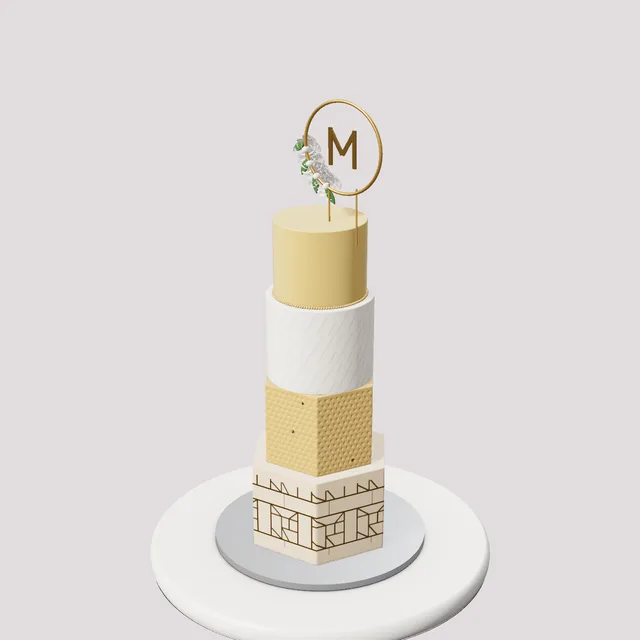
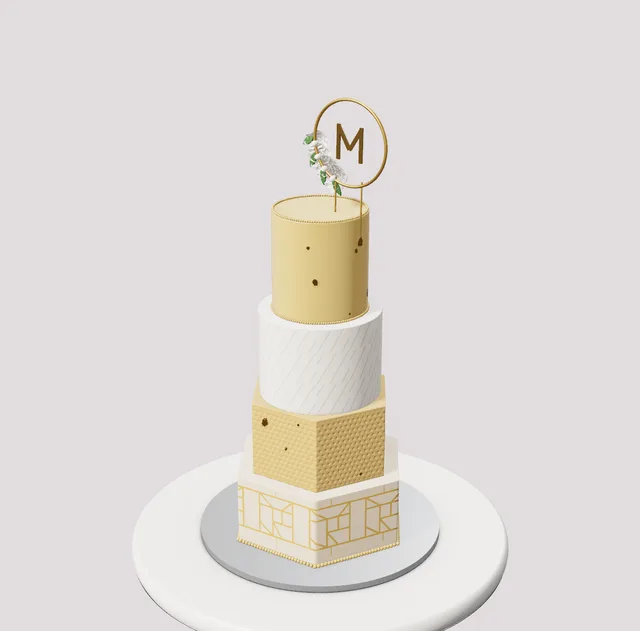
Signature cakes round 6: monogram and movie night proportions
Claude-Session: https://claude.ai/code/session_016sN14hzH19WJ5zrp8o2QGp

diff --git a/studio.html b/studio.html
@@ -1553,10 +1553,10 @@ THEMES.unshift(
   newTier(7,4.4,{top:'none',bottom:'none',decor:[DC('dragees','scatter',60,{color:'#fbf4f0',size:70}),DC('sprig','cascade',3,{color:'#8fa597',rot:-18,wide:2.5,size:210}),DC('peonies','cascade',3,{color:'#f08a9e',rot:-24,wide:2,size:390}),DC('ranunculus','cascade',2,{color:'#b58fcf',rot:-16,wide:2.5,size:300}),DC('blossoms','cascade',5,{color:'#fbf7f1',rot:-20,wide:3,size:170})]}),
   newTier(5.5,4.2,{texture:'lines',top:'none',bottom:'none'})]}},
  {key:'sig_monogram',name:'Gilded Monogram Hexagon',tag:SIG,blurb:'Champagne hexagons with bold geometric gold lines and a gold quilt, a pleated ivory tier, a gold leaf top and a floral monogram hoop.',d:{board:'silver',topper:'none',tiers:[
-  newTier(10,6,{shape:'hexagon',color:'#e4cfb2',finish:'fondant',top:'none',bottom:'none',stencil:{pattern:'geo',color:'#d4ae5a',size:3.6,height:4.8}}),
-  newTier(8,5.6,{shape:'hexagon',color:'#cfa95f',finish:'fondant',texture:'golf',goldLeaf:true,top:'none',bottom:'none'}),
-  newTier(7,5.6,{color:'#fbf7f1',finish:'fondant',top:'none',bottom:'none',stencil:{pattern:'pleats',color:'#e4dcd2',size:2,height:5.6}}),
-  newTier(6,5,{color:'#d8b66a',finish:'fondant',top:'none',bottom:'pearls',bottomColor:'#d4ae5a',decor:[DC('monohoop','cluster',1,{color:'#d4ae5a',size:300,center:true,face:95})]})]}},
+  newTier(13,5.2,{shape:'hexagon',color:'#e8d6bc',finish:'fondant',top:'none',bottom:'none',stencil:{pattern:'geo',color:'#c9a24e',size:4.4,height:4.4,y:.3},bottom:'pearls',bottomColor:'#d4ae5a'}),
+  newTier(10.6,5.4,{shape:'hexagon',color:'#cfa95f',finish:'fondant',texture:'golf',goldLeaf:true,top:'none',bottom:'none'}),
+  newTier(8.6,6.2,{color:'#fbf7f1',finish:'fondant',top:'none',bottom:'none',stencil:{pattern:'pleats',color:'#ddd2c4',size:2.2,height:6.2}}),
+  newTier(6.6,7,{color:'#d8b66a',finish:'fondant',goldLeaf:true,top:'pearls',pipe:'#d4ae5a',bottom:'pearls',bottomColor:'#d4ae5a',decor:[DC('monohoop','cluster',1,{color:'#d4ae5a',size:300,center:true,face:95})]})]}},
  {key:'sig_rosettower',name:'Blush Rosette Tower',tag:SIG,blurb:'White rosette tiers around a blush pleated tier, with a tall blush top tier in lace and a gold board.',d:{board:'gold',topper:'none',tiers:[
   newTier(10,5,{texture:'rosettes',top:'none',bottom:'none'}),
   newTier(8,4.6,{color:'#f3cfd3',finish:'fondant',top:'none',bottom:'none',stencil:{pattern:'pleats',color:'#e6b0b8',size:1.6,height:4.6}}),
@@ -1593,8 +1593,8 @@ THEMES.unshift(
  {key:'sig_blocks',name:'Building Block Number',tag:SIG,blurb:'A sunny yellow number 6 with a blue window, a mosaic wall of toy bricks around the side, rainbow sprinkles and bricks on top.',d:{cakeType:'number',number:{text:'6',height:13,layers:2,cake:'vanilla',cream:'#f6c919',style:'frosted',wall:['#e8475f','#2f6fd0','#f2c230','#5cc06c','#2f6fd0','#e8475f','#2a7a3a'],wallH:.95,holeFill:'#2f6fd0'},board:'white',boardColor:'#2f3f6b',topper:'none',tiers:[
   newTier(8,4,{decor:[DC('bricks','cluster',18,{size:250,mix:['#e8475f','#2f6fd0','#5cc06c']}),DC('sprinkles','cluster',260,{mix:['#e8475f','#2f6fd0','#5cc06c','#f28a3a','#fbf7f1']})]})]}},
  {key:'sig_movie',name:'Movie Night Popcorn',tag:SIG,blurb:'A red and white striped popcorn tier overflowing with popcorn and a "13" Admit One ticket, over a black and white chevron clapperboard tier with stars.',d:{board:'gold',topper:'none',tiers:[
-  newTier(9,4.6,{color:'#fbf7f1',finish:'fondant',top:'none',bottom:'none',stencil:{pattern:'chevron',color:'#1d1b1f',size:1.4,height:4.6},decor:[DC('clapper','band',1,{size:210,rot:95}),DC('stars','scatter',12,{mix:['#f3a6c0','#7fd3cc','#f2c230'],size:150}),DC('dragees','scatter',20,{color:'#f2c230',size:140})]}),
-  newTier(6.5,5.6,{color:'#fbf7f1',finish:'fondant',stencil:{pattern:'stripes',color:'#d62839',size:1.2,height:5.4},top:'rope',pipe:'#fbf7f1',bottom:'none',decor:[DC('popcorn','cluster',70,{color:'#f8efd4',size:260}),DC('ticket','cluster',1,{color:'#f6cf5a',size:300,center:true,face:95}),DC('stars','cluster',6,{mix:['#f3a6c0','#7fd3cc','#f2c230'],size:150})]})]}},
+  newTier(11,4.8,{color:'#fbf7f1',finish:'fondant',top:'none',bottom:'none',stencil:{pattern:'chevron',color:'#1d1b1f',size:1.4,height:4.6},decor:[DC('clapper','band',1,{size:210,rot:95}),DC('stars','scatter',12,{mix:['#f3a6c0','#7fd3cc','#f2c230'],size:150}),DC('dragees','scatter',20,{color:'#f2c230',size:140})]}),
+  newTier(7.4,8.4,{color:'#fbf7f1',finish:'fondant',stencil:{pattern:'stripes',color:'#d62839',size:1.3,height:8.2},top:'rope',pipe:'#fbf7f1',bottom:'none',decor:[DC('popcorn','cluster',70,{color:'#f8efd4',size:260}),DC('ticket','cluster',1,{color:'#f6cf5a',size:300,center:true,face:95}),DC('stars','cluster',6,{mix:['#f3a6c0','#7fd3cc','#f2c230'],size:150})]})]}},
  {key:'sig_crawfish',name:'Crawfish Boil Pot',tag:SIG,blurb:'A brushed silver stock pot cake with a tilted lid and loop handles, spilling over with crawfish and corn, with potatoes and corn on the board.',d:{board:'white',boardColor:'#ece5d3',topper:'none',tiers:[
   newTier(8,7,{color:'#c4c8ce',finish:'fondant',texture:'brushed',top:'rope',pipe:'#aeb2b8',bottom:'rope',bottomColor:'#aeb2b8',decor:[DC('pothandle','band',2,{color:'#c9ccd2',size:160,y:2,rot:95}),DC('potlid2','cluster',1,{color:'#c9ccd2',size:300,center:true}),DC('crawfish','crown',9,{color:'#d2381e',size:300}),DC('corncob','crown',3,{color:'#eeb31c',size:250,rot:60}),DC('crawfish','cascade',4,{color:'#d2381e',rot:100,size:260}),DC('corncob','cluster',3,{color:'#eeb31c',size:260,where:'board'}),DC('potato','cluster',4,{color:'#d9a441',size:260,where:'board'})]})]}},
  {key:'sig_bee',name:'Bumble Bee Garden',tag:SIG,blurb:'A smooth yellow dome bee head with big eyes and a smile, a fuzzy black piped collar, looped antennae and a garden of piped grass and sugar flowers.',d:{board:'white',boardColor:'#c9d96a',topper:'none',tiers:[

diff --git a/tools/signature-decor.js b/tools/signature-decor.js
@@ -221,10 +221,10 @@ THEMES.unshift(
   newTier(7,4.4,{top:'none',bottom:'none',decor:[DC('dragees','scatter',60,{color:'#fbf4f0',size:70}),DC('sprig','cascade',3,{color:'#8fa597',rot:-18,wide:2.5,size:210}),DC('peonies','cascade',3,{color:'#f08a9e',rot:-24,wide:2,size:390}),DC('ranunculus','cascade',2,{color:'#b58fcf',rot:-16,wide:2.5,size:300}),DC('blossoms','cascade',5,{color:'#fbf7f1',rot:-20,wide:3,size:170})]}),
   newTier(5.5,4.2,{texture:'lines',top:'none',bottom:'none'})]}},
  {key:'sig_monogram',name:'Gilded Monogram Hexagon',tag:SIG,blurb:'Champagne hexagons with bold geometric gold lines and a gold quilt, a pleated ivory tier, a gold leaf top and a floral monogram hoop.',d:{board:'silver',topper:'none',tiers:[
-  newTier(10,6,{shape:'hexagon',color:'#e4cfb2',finish:'fondant',top:'none',bottom:'none',stencil:{pattern:'geo',color:'#d4ae5a',size:3.6,height:4.8}}),
-  newTier(8,5.6,{shape:'hexagon',color:'#cfa95f',finish:'fondant',texture:'golf',goldLeaf:true,top:'none',bottom:'none'}),
-  newTier(7,5.6,{color:'#fbf7f1',finish:'fondant',top:'none',bottom:'none',stencil:{pattern:'pleats',color:'#e4dcd2',size:2,height:5.6}}),
-  newTier(6,5,{color:'#d8b66a',finish:'fondant',top:'none',bottom:'pearls',bottomColor:'#d4ae5a',decor:[DC('monohoop','cluster',1,{color:'#d4ae5a',size:300,center:true,face:95})]})]}},
+  newTier(13,5.2,{shape:'hexagon',color:'#e8d6bc',finish:'fondant',top:'none',bottom:'none',stencil:{pattern:'geo',color:'#c9a24e',size:4.4,height:4.4,y:.3},bottom:'pearls',bottomColor:'#d4ae5a'}),
+  newTier(10.6,5.4,{shape:'hexagon',color:'#cfa95f',finish:'fondant',texture:'golf',goldLeaf:true,top:'none',bottom:'none'}),
+  newTier(8.6,6.2,{color:'#fbf7f1',finish:'fondant',top:'none',bottom:'none',stencil:{pattern:'pleats',color:'#ddd2c4',size:2.2,height:6.2}}),
+  newTier(6.6,7,{color:'#d8b66a',finish:'fondant',goldLeaf:true,top:'pearls',pipe:'#d4ae5a',bottom:'pearls',bottomColor:'#d4ae5a',decor:[DC('monohoop','cluster',1,{color:'#d4ae5a',size:300,center:true,face:95})]})]}},
  {key:'sig_rosettower',name:'Blush Rosette Tower',tag:SIG,blurb:'White rosette tiers around a blush pleated tier, with a tall blush top tier in lace and a gold board.',d:{board:'gold',topper:'none',tiers:[
   newTier(10,5,{texture:'rosettes',top:'none',bottom:'none'}),
   newTier(8,4.6,{color:'#f3cfd3',finish:'fondant',top:'none',bottom:'none',stencil:{pattern:'pleats',color:'#e6b0b8',size:1.6,height:4.6}}),
@@ -261,8 +261,8 @@ THEMES.unshift(
  {key:'sig_blocks',name:'Building Block Number',tag:SIG,blurb:'A sunny yellow number 6 with a blue window, a mosaic wall of toy bricks around the side, rainbow sprinkles and bricks on top.',d:{cakeType:'number',number:{text:'6',height:13,layers:2,cake:'vanilla',cream:'#f6c919',style:'frosted',wall:['#e8475f','#2f6fd0','#f2c230','#5cc06c','#2f6fd0','#e8475f','#2a7a3a'],wallH:.95,holeFill:'#2f6fd0'},board:'white',boardColor:'#2f3f6b',topper:'none',tiers:[
   newTier(8,4,{decor:[DC('bricks','cluster',18,{size:250,mix:['#e8475f','#2f6fd0','#5cc06c']}),DC('sprinkles','cluster',260,{mix:['#e8475f','#2f6fd0','#5cc06c','#f28a3a','#fbf7f1']})]})]}},
  {key:'sig_movie',name:'Movie Night Popcorn',tag:SIG,blurb:'A red and white striped popcorn tier overflowing with popcorn and a "13" Admit One ticket, over a black and white chevron clapperboard tier with stars.',d:{board:'gold',topper:'none',tiers:[
-  newTier(9,4.6,{color:'#fbf7f1',finish:'fondant',top:'none',bottom:'none',stencil:{pattern:'chevron',color:'#1d1b1f',size:1.4,height:4.6},decor:[DC('clapper','band',1,{size:210,rot:95}),DC('stars','scatter',12,{mix:['#f3a6c0','#7fd3cc','#f2c230'],size:150}),DC('dragees','scatter',20,{color:'#f2c230',size:140})]}),
-  newTier(6.5,5.6,{color:'#fbf7f1',finish:'fondant',stencil:{pattern:'stripes',color:'#d62839',size:1.2,height:5.4},top:'rope',pipe:'#fbf7f1',bottom:'none',decor:[DC('popcorn','cluster',70,{color:'#f8efd4',size:260}),DC('ticket','cluster',1,{color:'#f6cf5a',size:300,center:true,face:95}),DC('stars','cluster',6,{mix:['#f3a6c0','#7fd3cc','#f2c230'],size:150})]})]}},
+  newTier(11,4.8,{color:'#fbf7f1',finish:'fondant',top:'none',bottom:'none',stencil:{pattern:'chevron',color:'#1d1b1f',size:1.4,height:4.6},decor:[DC('clapper','band',1,{size:210,rot:95}),DC('stars','scatter',12,{mix:['#f3a6c0','#7fd3cc','#f2c230'],size:150}),DC('dragees','scatter',20,{color:'#f2c230',size:140})]}),
+  newTier(7.4,8.4,{color:'#fbf7f1',finish:'fondant',stencil:{pattern:'stripes',color:'#d62839',size:1.3,height:8.2},top:'rope',pipe:'#fbf7f1',bottom:'none',decor:[DC('popcorn','cluster',70,{color:'#f8efd4',size:260}),DC('ticket','cluster',1,{color:'#f6cf5a',size:300,center:true,face:95}),DC('stars','cluster',6,{mix:['#f3a6c0','#7fd3cc','#f2c230'],size:150})]})]}},
  {key:'sig_crawfish',name:'Crawfish Boil Pot',tag:SIG,blurb:'A brushed silver stock pot cake with a tilted lid and loop handles, spilling over with crawfish and corn, with potatoes and corn on the board.',d:{board:'white',boardColor:'#ece5d3',topper:'none',tiers:[
   newTier(8,7,{color:'#c4c8ce',finish:'fondant',texture:'brushed',top:'rope',pipe:'#aeb2b8',bottom:'rope',bottomColor:'#aeb2b8',decor:[DC('pothandle','band',2,{color:'#c9ccd2',size:160,y:2,rot:95}),DC('potlid2','cluster',1,{color:'#c9ccd2',size:300,center:true}),DC('crawfish','crown',9,{color:'#d2381e',size:300}),DC('corncob','crown',3,{color:'#eeb31c',size:250,rot:60}),DC('crawfish','cascade',4,{color:'#d2381e',rot:100,size:260}),DC('corncob','cluster',3,{color:'#eeb31c',size:260,where:'board'}),DC('potato','cluster',4,{color:'#d9a441',size:260,where:'board'})]})]}},
  {key:'sig_bee',name:'Bumble Bee Garden',tag:SIG,blurb:'A smooth yellow dome bee head with big eyes and a smile, a fuzzy black piped collar, looped antennae and a garden of piped grass and sugar flowers.',d:{board:'white',boardColor:'#c9d96a',topper:'none',tiers:[

diff --git a/tools/sig-themes.js b/tools/sig-themes.js
@@ -8,10 +8,10 @@ THEMES.unshift(
   newTier(7,4.4,{top:'none',bottom:'none',decor:[DC('dragees','scatter',60,{color:'#fbf4f0',size:70}),DC('sprig','cascade',3,{color:'#8fa597',rot:-18,wide:2.5,size:210}),DC('peonies','cascade',3,{color:'#f08a9e',rot:-24,wide:2,size:390}),DC('ranunculus','cascade',2,{color:'#b58fcf',rot:-16,wide:2.5,size:300}),DC('blossoms','cascade',5,{color:'#fbf7f1',rot:-20,wide:3,size:170})]}),
   newTier(5.5,4.2,{texture:'lines',top:'none',bottom:'none'})]}},
  {key:'sig_monogram',name:'Gilded Monogram Hexagon',tag:SIG,blurb:'Champagne hexagons with bold geometric gold lines and a gold quilt, a pleated ivory tier, a gold leaf top and a floral monogram hoop.',d:{board:'silver',topper:'none',tiers:[
-  newTier(10,6,{shape:'hexagon',color:'#e4cfb2',finish:'fondant',top:'none',bottom:'none',stencil:{pattern:'geo',color:'#d4ae5a',size:3.6,height:4.8}}),
-  newTier(8,5.6,{shape:'hexagon',color:'#cfa95f',finish:'fondant',texture:'golf',goldLeaf:true,top:'none',bottom:'none'}),
-  newTier(7,5.6,{color:'#fbf7f1',finish:'fondant',top:'none',bottom:'none',stencil:{pattern:'pleats',color:'#e4dcd2',size:2,height:5.6}}),
-  newTier(6,5,{color:'#d8b66a',finish:'fondant',top:'none',bottom:'pearls',bottomColor:'#d4ae5a',decor:[DC('monohoop','cluster',1,{color:'#d4ae5a',size:300,center:true,face:95})]})]}},
+  newTier(13,5.2,{shape:'hexagon',color:'#e8d6bc',finish:'fondant',top:'none',bottom:'none',stencil:{pattern:'geo',color:'#c9a24e',size:4.4,height:4.4,y:.3},bottom:'pearls',bottomColor:'#d4ae5a'}),
+  newTier(10.6,5.4,{shape:'hexagon',color:'#cfa95f',finish:'fondant',texture:'golf',goldLeaf:true,top:'none',bottom:'none'}),
+  newTier(8.6,6.2,{color:'#fbf7f1',finish:'fondant',top:'none',bottom:'none',stencil:{pattern:'pleats',color:'#ddd2c4',size:2.2,height:6.2}}),
+  newTier(6.6,7,{color:'#d8b66a',finish:'fondant',goldLeaf:true,top:'pearls',pipe:'#d4ae5a',bottom:'pearls',bottomColor:'#d4ae5a',decor:[DC('monohoop','cluster',1,{color:'#d4ae5a',size:300,center:true,face:95})]})]}},
  {key:'sig_rosettower',name:'Blush Rosette Tower',tag:SIG,blurb:'White rosette tiers around a blush pleated tier, with a tall blush top tier in lace and a gold board.',d:{board:'gold',topper:'none',tiers:[
   newTier(10,5,{texture:'rosettes',top:'none',bottom:'none'}),
   newTier(8,4.6,{color:'#f3cfd3',finish:'fondant',top:'none',bottom:'none',stencil:{pattern:'pleats',color:'#e6b0b8',size:1.6,height:4.6}}),
@@ -48,8 +48,8 @@ THEMES.unshift(
  {key:'sig_blocks',name:'Building Block Number',tag:SIG,blurb:'A sunny yellow number 6 with a blue window, a mosaic wall of toy bricks around the side, rainbow sprinkles and bricks on top.',d:{cakeType:'number',number:{text:'6',height:13,layers:2,cake:'vanilla',cream:'#f6c919',style:'frosted',wall:['#e8475f','#2f6fd0','#f2c230','#5cc06c','#2f6fd0','#e8475f','#2a7a3a'],wallH:.95,holeFill:'#2f6fd0'},board:'white',boardColor:'#2f3f6b',topper:'none',tiers:[
   newTier(8,4,{decor:[DC('bricks','cluster',18,{size:250,mix:['#e8475f','#2f6fd0','#5cc06c']}),DC('sprinkles','cluster',260,{mix:['#e8475f','#2f6fd0','#5cc06c','#f28a3a','#fbf7f1']})]})]}},
  {key:'sig_movie',name:'Movie Night Popcorn',tag:SIG,blurb:'A red and white striped popcorn tier overflowing with popcorn and a "13" Admit One ticket, over a black and white chevron clapperboard tier with stars.',d:{board:'gold',topper:'none',tiers:[
-  newTier(9,4.6,{color:'#fbf7f1',finish:'fondant',top:'none',bottom:'none',stencil:{pattern:'chevron',color:'#1d1b1f',size:1.4,height:4.6},decor:[DC('clapper','band',1,{size:210,rot:95}),DC('stars','scatter',12,{mix:['#f3a6c0','#7fd3cc','#f2c230'],size:150}),DC('dragees','scatter',20,{color:'#f2c230',size:140})]}),
-  newTier(6.5,5.6,{color:'#fbf7f1',finish:'fondant',stencil:{pattern:'stripes',color:'#d62839',size:1.2,height:5.4},top:'rope',pipe:'#fbf7f1',bottom:'none',decor:[DC('popcorn','cluster',70,{color:'#f8efd4',size:260}),DC('ticket','cluster',1,{color:'#f6cf5a',size:300,center:true,face:95}),DC('stars','cluster',6,{mix:['#f3a6c0','#7fd3cc','#f2c230'],size:150})]})]}},
+  newTier(11,4.8,{color:'#fbf7f1',finish:'fondant',top:'none',bottom:'none',stencil:{pattern:'chevron',color:'#1d1b1f',size:1.4,height:4.6},decor:[DC('clapper','band',1,{size:210,rot:95}),DC('stars','scatter',12,{mix:['#f3a6c0','#7fd3cc','#f2c230'],size:150}),DC('dragees','scatter',20,{color:'#f2c230',size:140})]}),
+  newTier(7.4,8.4,{color:'#fbf7f1',finish:'fondant',stencil:{pattern:'stripes',color:'#d62839',size:1.3,height:8.2},top:'rope',pipe:'#fbf7f1',bottom:'none',decor:[DC('popcorn','cluster',70,{color:'#f8efd4',size:260}),DC('ticket','cluster',1,{color:'#f6cf5a',size:300,center:true,face:95}),DC('stars','cluster',6,{mix:['#f3a6c0','#7fd3cc','#f2c230'],size:150})]})]}},
  {key:'sig_crawfish',name:'Crawfish Boil Pot',tag:SIG,blurb:'A brushed silver stock pot cake with a tilted lid and loop handles, spilling over with crawfish and corn, with potatoes and corn on the board.',d:{board:'white',boardColor:'#ece5d3',topper:'none',tiers:[
   newTier(8,7,{color:'#c4c8ce',finish:'fondant',texture:'brushed',top:'rope',pipe:'#aeb2b8',bottom:'rope',bottomColor:'#aeb2b8',decor:[DC('pothandle','band',2,{color:'#c9ccd2',size:160,y:2,rot:95}),DC('potlid2','cluster',1,{color:'#c9ccd2',size:300,center:true}),DC('crawfish','crown',9,{color:'#d2381e',size:300}),DC('corncob','crown',3,{color:'#eeb31c',size:250,rot:60}),DC('crawfish','cascade',4,{color:'#d2381e',rot:100,size:260}),DC('corncob','cluster',3,{color:'#eeb31c',size:260,where:'board'}),DC('potato','cluster',4,{color:'#d9a441',size:260,where:'board'})]})]}},
  {key:'sig_bee',name:'Bumble Bee Garden',tag:SIG,blurb:'A smooth yellow dome bee head with big eyes and a smile, a fuzzy black piped collar, looped antennae and a garden of piped grass and sugar flowers.',d:{board:'white',boardColor:'#c9d96a',topper:'none',tiers:[
